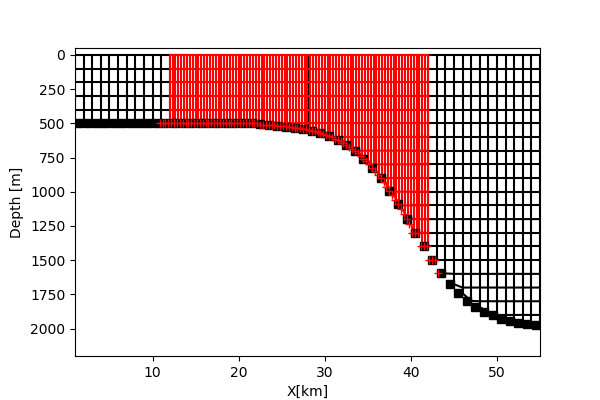
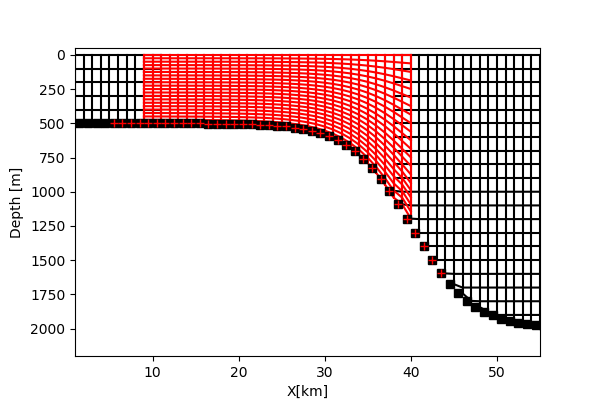
Extend Overflow test case by 2 points in the meridional direction to allow interface shift. Improve bathymetry updates (for 2DV cases in particular)

Changed region(s): [[0.18, 0.12, 0.9, 0.69]]

diff --git a/AGRIFTESTCASES/agrif_connect_bathy.py b/AGRIFTESTCASES/agrif_connect_bathy.py
@@ -52,7 +52,7 @@ def update_child_from_parent2(tabp, tabc, iraf, jraf, imin, jmin, imax, jmax, ng
 
     i0st = nghost + imin        # First Parent point inside zoom
     j0st = nghost + jmin
-    i0end = nghost + imax-1     # First Parent point inside zoom
+    i0end = nghost + imax-1     # Last Parent point inside zoom
     j0end = nghost + jmax-1
 
     upd = np.zeros((jpi0, jpj0))
@@ -83,9 +83,11 @@ def update_child_from_parent2(tabp, tabc, iraf, jraf, imin, jmin, imax, jmax, ng
     # Shift indexes to account for domain outside dynamical interface:
     ishift = np.int(np.ceil(np.float(nghost + 1)/np.float(iraf)))
     jshift = np.int(np.ceil(np.float(nghost + 1)/np.float(jraf)))
-    if iraf == 1:
+
+    if (flagw == 0) & (flage == 0):
         ishift = 0
-    if jraf == 1:
+
+    if (flags == 0) & (flagn == 0):
         jshift = 0
 
     for ip in range(i0st-ishift, i0end+1+ishift):
@@ -109,7 +111,7 @@ def update_child_from_parent3(tabp, tabc, iraf, jraf, imin, jmin, imax, jmax, ng
 
     i0st = nghost + imin     # First Parent point inside zoom
     j0st = nghost + jmin
-    i0end = nghost + imax-1  # First Parent point inside zoom
+    i0end = nghost + imax-1  # Last Parent point inside zoom
     j0end = nghost + jmax-1
 
     # Shift indexes to account for domain outside dynamical interface:
@@ -168,9 +170,11 @@ def update_child_and_parent_max(tabp, tabc, kbot0, kbot1, e3t0, e3t1, e3t_1d0, d
     # Shift indexes to account for domain outside dynamical interface:
     ishift = np.int(np.ceil(np.float(nghost + 1)/np.float(iraf)))
     jshift = np.int(np.ceil(np.float(nghost + 1)/np.float(jraf)))
-    if iraf == 1:
+
+    if (flagw == 0) & (flage == 0):
         ishift = 0
-    if jraf == 1:
+
+    if (flags == 0) & (flagn == 0):
         jshift = 0
 
     for ip in range(i0st-ishift, i0end+1+ishift):
@@ -329,9 +333,11 @@ def diag_child_parent_vol(tabc, tabp, iraf, jraf, imin, jmin, imax, jmax, nghost
     # Shift indexes to account for domain outside dynamical interface:
     ishift = np.int(np.ceil(np.float(nghost + 1)/np.float(iraf)))
     jshift = np.int(np.ceil(np.float(nghost + 1)/np.float(jraf)))
-    if iraf == 1:
+
+    if (flagw == 0) & (flage == 0):
         ishift = 0
-    if jraf == 1:
+
+    if (flags == 0) & (flagn == 0):
         jshift = 0
 
     print(' ')
@@ -368,34 +374,42 @@ def set_scovgrid_step(bat, kbot, e3t, depw, e3u, e3v, nghost, nmatch, iraf, jraf
             batvs[i, j] = min(bat[i, j], bat[i, j + 1])
             batv[i, j] = 0.5 * (bat[i, j] + bat[i, j + 1])
 
-    updu = np.zeros((jpi, jpj))
-
     # Detect open boundaries and update update array accordingly:
     flagw = min(np.sum(bat[nghost:nghost+1, :], axis=1), 1.)
     flage = min(np.sum(bat[jpi-nghost-1:jpi-nghost, :], axis=1), 1.)
     flags = min(np.squeeze(np.sum(bat[:, nghost:nghost+1], axis=0)), 1.)
     flagn = min(np.squeeze(np.sum(bat[:, jpj-nghost-1:jpj-nghost], axis=0)), 1.)
 
-    # TO DO: Discriminate U and V connection zones:
-    # add update of e3uw, e3vw, e3f
-    upd = np.zeros((jpi, jpj))
+    # TODO: f-points case
+    # and take a more careful look at update location
+    upd_u = np.zeros((jpi, jpj))
     if flagw == 1:
-        upd[0:nghost + nmatch*iraf + 1, :] = 1
+        upd_u[0:nghost + nmatch*iraf, :] = 1
     if flage == 1:
-        upd[jpi-nghost - nmatch*iraf:jpi, :] = 1
+        upd_u[jpi-nghost - nmatch*iraf - 1:jpi, :] = 1
     if flags == 1:
-        upd[:, 0:nghost + nmatch*jraf + 1] = 1
+        upd_u[:, 0:nghost + nmatch*jraf] = 1
     if flagn == 1:
-        upd[:, jpj - nghost - nmatch*jraf:jpj] = 1
+        upd_u[:, jpj - nghost - nmatch*jraf-1:jpj] = 1
+
+    upd_v = np.zeros((jpi, jpj))
+    if flagw == 1:
+        upd_v[0:nghost + nmatch*iraf + 1, :] = 1
+    if flage == 1:
+        upd_v[jpi-nghost - nmatch*iraf:jpi, :] = 1
+    if flags == 1:
+        upd_v[:, 0:nghost + nmatch*jraf + 1] = 1
+    if flagn == 1:
+        upd_v[:, jpj - nghost - nmatch*jraf:jpj] = 1
 
     for i in np.arange(0, jpi - 1, 1):
         for j in np.arange(0, jpj - 1, 1):
             # U-points:
             zbot = batus[i, j]
             jkmax = np.int(min(kbot[i, j], kbot[i+1, j]) - 1)
-            if (jkmax >= 0) & (upd[i,j] == 1):
+            if (jkmax >= 0) & (upd_u[i, j] == 1):
                 for k in np.arange(jkmax, 0, -1):
-                    zsup = 0.5*( depw[i, j, k] + depw[i + 1, j, k] )
+                    zsup = 0.5*(depw[i, j, k] + depw[i + 1, j, k])
                     if batus[i, j] < batu[i, j]:    # step to the right
                         zsup = min(zsup, zbot - 0.8 * e3t[i + 1, j, k])
                     else:                           # step to the left
@@ -405,7 +419,7 @@ def set_scovgrid_step(bat, kbot, e3t, depw, e3u, e3v, nghost, nmatch, iraf, jraf
             # V-points:
             zbot = batvs[i, j]
             jkmax = np.int(min(kbot[i, j], kbot[i, j+1]) - 1)
-            if (jkmax >= 0) & (upd[i, j] == 1):
+            if (jkmax >= 0) & (upd_v[i, j] == 1):
                 for k in np.arange(jkmax, 0, -1):
                     zsup = 0.5 * (depw[i, j, k] + depw[i, j + 1, k])
                     if batvs[i, j] < batv[i, j]:    # step to the right

diff --git a/AGRIFTESTCASES/mk_mesh_overflow.py b/AGRIFTESTCASES/mk_mesh_overflow.py
@@ -19,16 +19,20 @@ jperio0 = 0
 
 # Define Child here:
 zoom_ist = 10
-zoom_iend = 40
+zoom_iend = 41
+# Extended case:
+# zoom_iend = 61
 zoom_jst = 1
-zoom_jend = 2
-iraf = 3
+zoom_jend = 4
+# if no interface shift:
+# zoom_jend = 2
+iraf = 1
 jraf = 1
 dz1 = 100.
 ln_zco1 = 0
-ln_zps1 = 1
-ln_sco1 = 0
-stype1 = 1
+ln_zps1 = 0
+ln_sco1 = 1
+stype1 = 0
 ln_isfcav1 = 0
 jperio1 = 0
 
@@ -48,7 +52,9 @@ dy0 = dx0
 # Ideally, nghost should be 0 on the western side only but AGRIF does not discriminate
 # the nghost value for each side of the zoom...
 jpi0 = np.int(200.e3 / dx0) + 2 + nghost
-jpj0 = 3 + 2 * nghost
+jpj0 = 3 + 2 * nghost + 2
+# if no interface shift:
+# jpj0 = 3 + 2 * nghost
 jpk0 = np.int(np.round(2000. / dz0) + 1)
 # zoffx0 = -0.5
 # zoffy0 = -0.5
@@ -105,7 +111,9 @@ def set_overflow_hgrid(dx, dy, jpi, jpj, zoffx, zoffy):
 
     # Set surface mask:
     ktop = np.zeros((jpi, jpj))
-    ktop[1:jpi - 1, nghost + 1:jpj - nghost - 1] = 1
+    ktop[1:jpi - 1, nghost + 2:jpj - nghost - 2] = 1
+    # if no interface shift:
+    # ktop[1:jpi - 1, nghost + 1:jpj - nghost - 1] = 1
     batt = np.where((ktop == 0.), 0., batt)
 
     # Set coriolis parameter:
@@ -176,17 +184,21 @@ if match_bat == 1:
         (kbot0, batt0, e3t0, e3w0, depw0, dept0) = set_pstepvgrid(batt0, depw_1d0, dept_1d0, e3t_1d0, e3w_1d0)
         (kbot1, batt1, e3t1, e3w1, depw1, dept1) = set_pstepvgrid(batt1, depw_1d1, dept_1d1, e3t_1d1, e3w_1d1)
 
-    if (ln_zps0 == 1) & (ln_sco1 == 1):
+    if (ln_sco0 == 0) & (ln_sco1 == 1):
         batt1 = update_child_from_parent2(batt0, batt1, iraf, jraf, zoom_ist, zoom_jst, zoom_iend, zoom_jend, nghost,
                                           nmatch)
         (kbot1, batt1, e3t1, e3w1, depw1, dept1) = \
             set_scovgrid(batt1, depw_1d1, dept_1d1, e3t_1d1, e3w_1d1, stype1)
 
+    if (ln_sco0 == 1) & (ln_sco1 == 0):
+        batt0 = update_parent_from_child(batt1, batt0, iraf, jraf, zoom_ist, zoom_jst, zoom_iend, zoom_jend, nghost)
+        (kbot0, batt0, e3t0, e3w0, depw0, dept0) = set_scovgrid(batt0, depw_1d0, dept_1d0, e3t_1d0, e3w_1d0, stype0)
+
     if ln_zps0 == 1:
-        (kbot0, batt0, e3t0, e3w0, depw0, dept0) = update_parent_from_child_zps(batt1, batt0, kbot0, e3t0, e3w0, depw0,
-                                                                                dept0, depw_1d0, dept_1d0, e3t_1d0, e3w_1d0,
-                                                                                iraf, jraf, zoom_ist, zoom_jst, zoom_iend,
-                                                                                zoom_jend, nghost, nmatch)
+        (kbot0, batt0, e3t0, e3w0, depw0, dept0) = \
+        update_parent_from_child_zps(batt1, batt0, kbot0, e3t0, e3w0, depw0, dept0, depw_1d0, dept_1d0,
+                                     e3t_1d0, e3w_1d0, iraf, jraf, zoom_ist, zoom_jst, zoom_iend,
+                                     zoom_jend, nghost, nmatch)
 
 # Set vertical grids at UVF-points:
 (e3u0, e3v0, e3f0, e3uw0, e3vw0) = set_uvfvgrid(ln_zco0, ln_zps0, ln_sco0, e3t_1d0, e3w_1d0, e3t0, e3w0)
@@ -210,6 +222,7 @@ diag_child_parent_vol(batt1, batt0, iraf, jraf, zoom_ist, zoom_jst, zoom_iend, z
 # -------------------------------------------------
 if write_dom == 1:
     # Parent:
+    ktop0 = np.where((batt0 == 0.), 0, ktop0)  # Adjust top level in case land mask has changed in the matching process
     nc_write_dom('OVF_domcfg.nc', ln_zco0, ln_zps0, ln_sco0, ln_isfcav0, jperio0,
                  batt0, lont0, latt0, lonu0, latu0, lonv0, latv0, lonf0, latf0,
                  e1t0, e2t0, e1u0, e2u0, e1v0, e2v0, e1f0, e2f0, ff_f0, ff_t0,
@@ -218,6 +231,7 @@ if write_dom == 1:
     nc_write_coord('OVF_coordinates.nc', lont0, latt0, lonu0, latu0, lonv0, latv0, lonf0, latf0,
                    e1t0, e2t0, e1u0, e2u0, e1v0, e2v0, e1f0, e2f0)
     # Child:
+    ktop1 = np.where((batt1 == 0.), 0, ktop1)  # Adjust top level in case land mask has changed in the matching process
     nc_write_dom('1_OVF_domcfg.nc', ln_zco1, ln_zps1, ln_sco1, ln_isfcav1, jperio1,
                  batt1, lont1, latt1, lonu1, latu1, lonv1, latv1, lonf1, latf1,
                  e1t1, e2t1, e1u1, e2u1, e1v1, e2v1, e1f1, e2f1, ff_f1, ff_t1,
@@ -307,7 +321,7 @@ for i in np.arange(0, jpi1 - 1, 1):
 
 isub = 1
 i0 = np.int((nghost + zoom_ist - 1) / isub)
-j0 = nghost + 1  # j index of the zonal slice
+j0 = nghost + 2  # j index of the zonal slice
 for k in np.arange(0, jpk0, isub):
     plt.plot(lonu0[nghost + zoom_ist - 1 - i0:nghost + zoom_ist - 1 + nmatch + 1, j0],
              np.squeeze(depwu0[nghost + zoom_ist - 1 - i0:nghost + zoom_ist - 1 + nmatch + 1, j0, k]), 'k')
